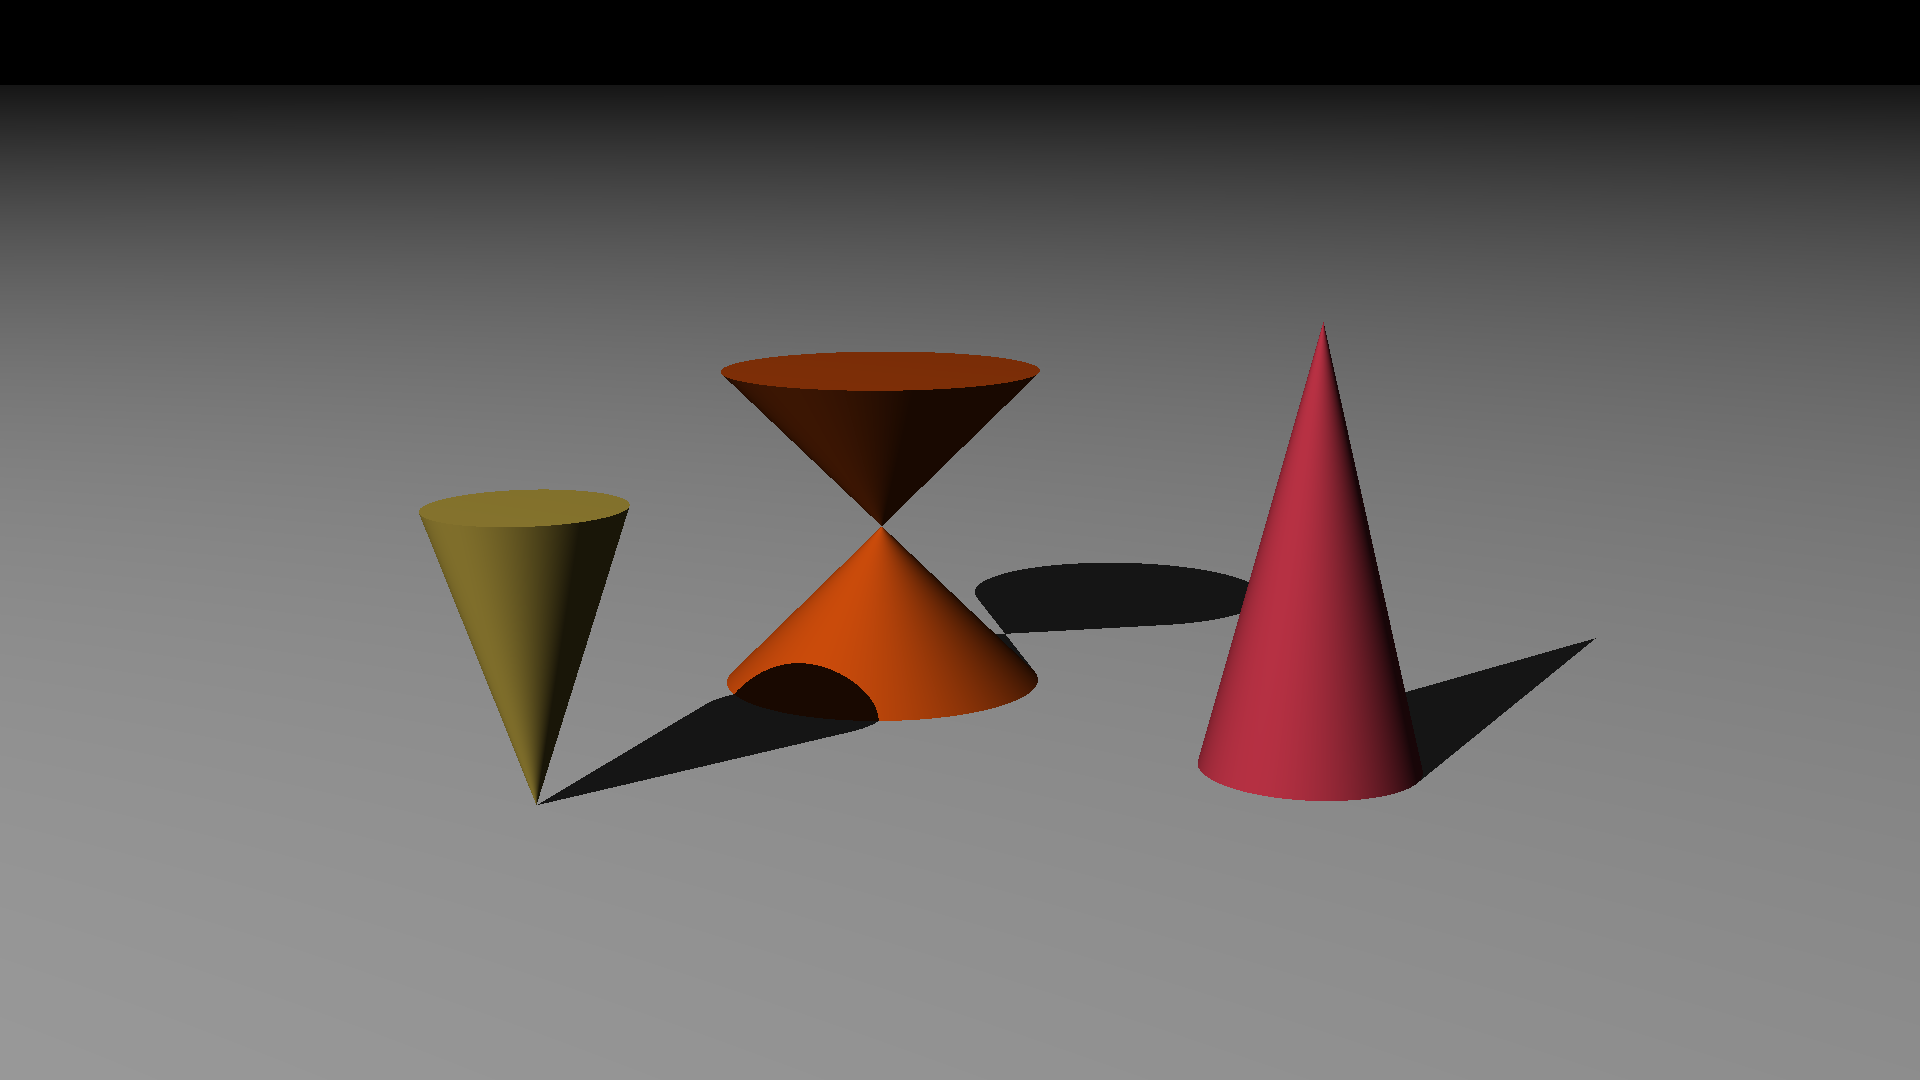
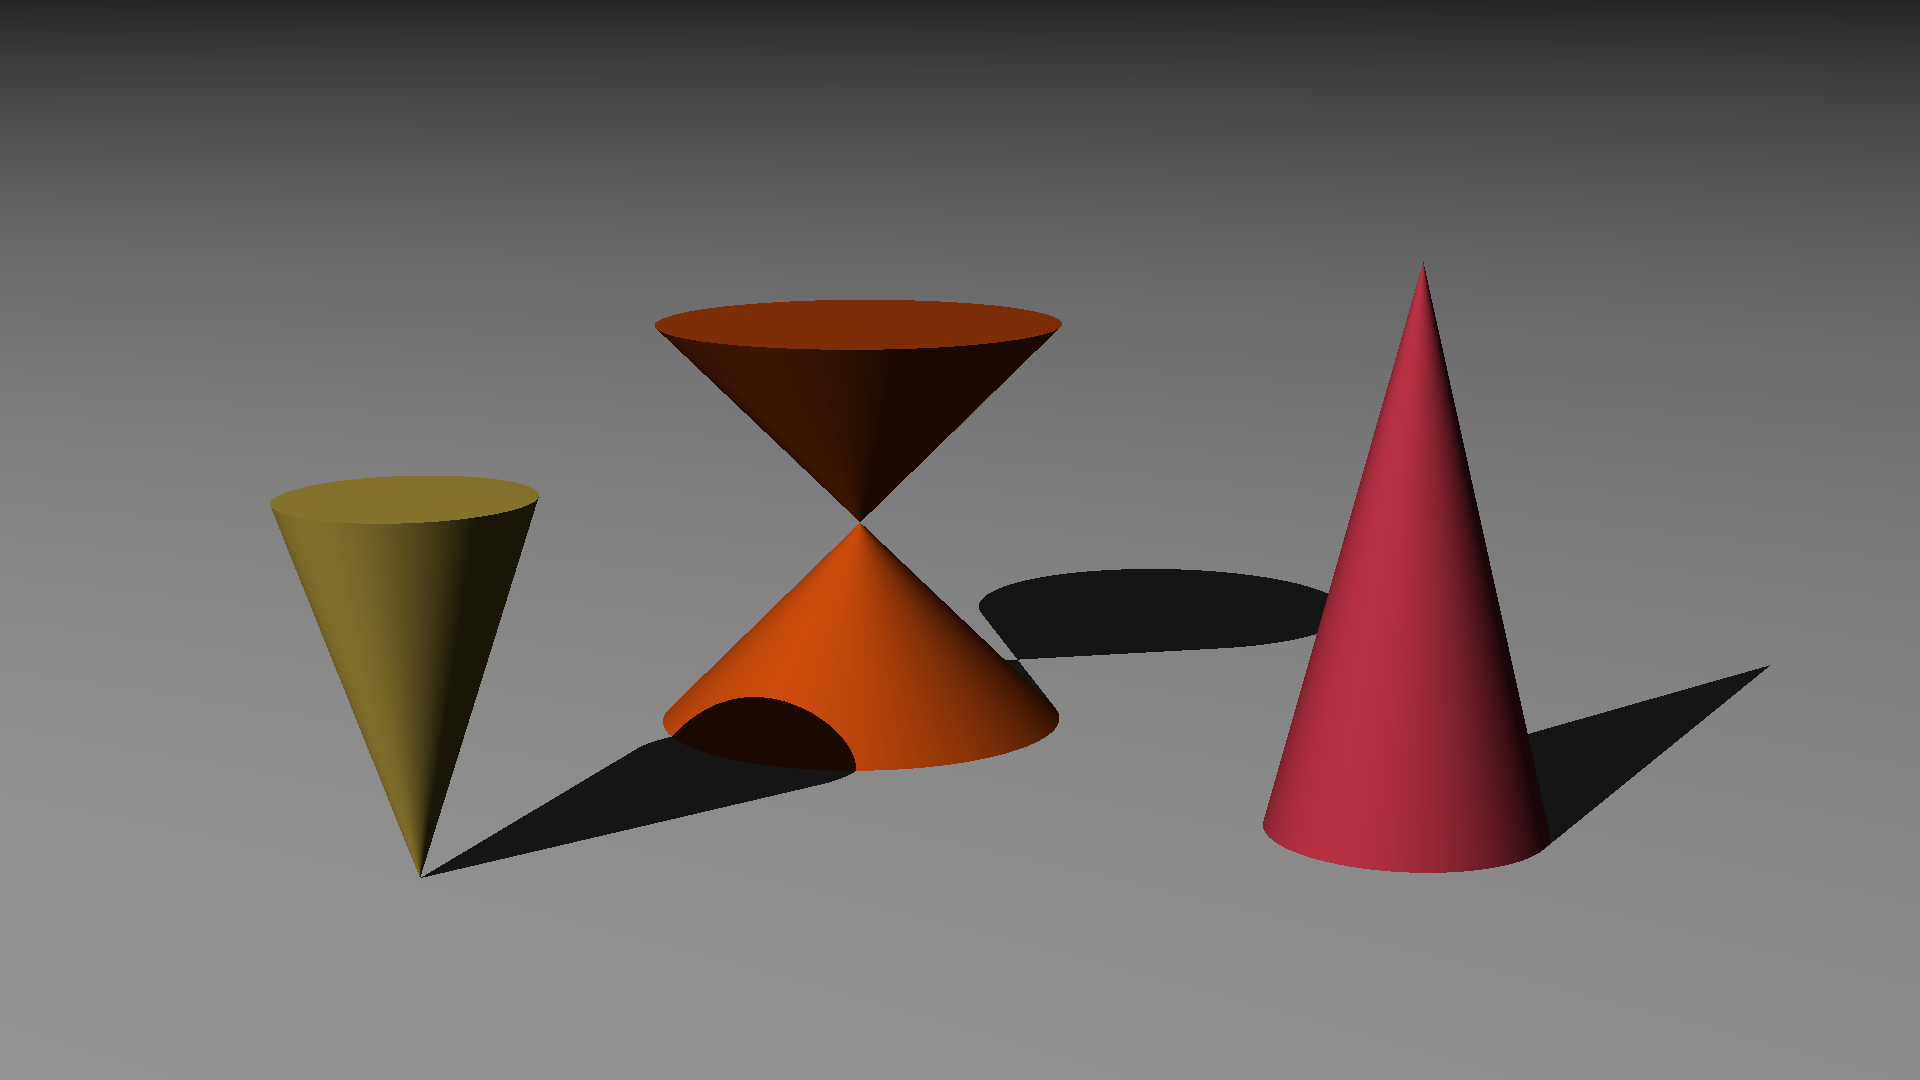
Update cones scene.

diff --git a/src/Chapters/Chapter-13.cpp b/src/Chapters/Chapter-13.cpp
@@ -262,7 +262,6 @@ void cylinders_scene() {
   Image image = camera.render(scene);
   image.save_as_png("images/chapter-13-cylinders.png");
 }
-}  // namespace
 
 void cone_scene() {
   Scene scene;
@@ -333,13 +332,14 @@ void cone_scene() {
   //----------------------------------------------------------------------------
   // Camera
   //----------------------------------------------------------------------------
-  Camera camera(1920, 1080, PI / 4);
+  Camera camera(1920, 1080, PI / 5);
   camera.set_view_transform(Point(0, 1.5, -5), Point(0, 0.5, 0),
                             Vector(0, 1, 0));
 
   Image image = camera.render(scene);
   image.save_as_png("images/chapter-13-cones.png");
 }
+}  // namespace
 
 void chapter13() {
   reflection_scene();
